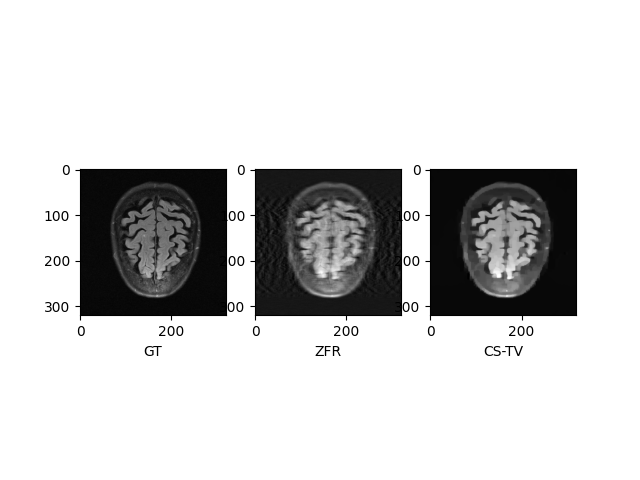
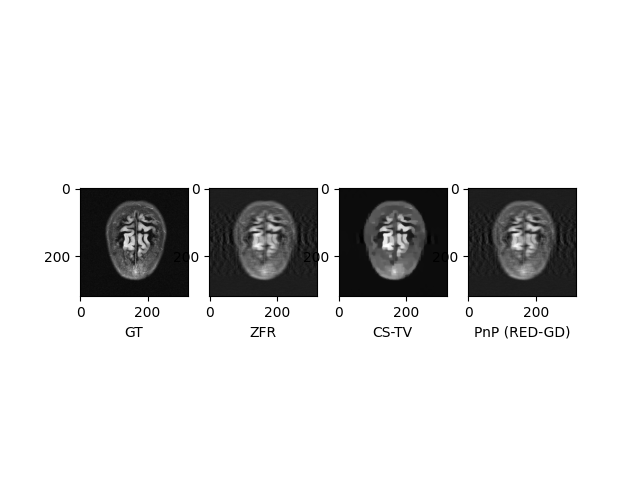
Small changes

diff --git a/utils/fastmri/models/unet/train_unet.py b/utils/fastmri/models/unet/train_unet.py
@@ -23,8 +23,8 @@ from eval import nmse
 from utils import fastmri
 from utils.fastmri.data import transforms
 from utils.fastmri.data.mri_data import SelectiveSliceData
+from utils.fastmri.data.mri_data import SliceDataset
 from utils.fastmri.models.unet.unet import UnetModel
-import wandb
 
 from utils.fastmri.utils import generate_gro_mask
 
@@ -52,10 +52,9 @@ class DataTransform:
         self.mask = None
         if args.mask_path is not None:
             self.mask = torch.load(args.mask_path)
-            if args.challenge == 'singlecoil':
-                self.mask = self.mask.squeeze(0)
+            self.mask = self.mask.squeeze(0)
 
-    def __call__(self, kspace, target, attrs, fname, slice):
+    def __call__(self, kspace, mk, target, attrs, fname, slice):
         """
         Args:
             kspace (numpy.array): Input k-space of shape (num_coils, rows, cols, 2) for multi-coil
@@ -80,8 +79,6 @@ class DataTransform:
 
         # Inverse Fourier Transform to get zero filled solution
         image = fastmri.ifft2c(masked_kspace)
-        # Crop input image
-        image = transforms.complex_center_crop(image, (args.resolution, args.resolution))
         # Absolute value
         image = fastmri.complex_abs(image)
 
@@ -90,50 +87,33 @@ class DataTransform:
         image = image.clamp(-6, 6)
 
         # Normalize target
-        target = transforms.to_tensor(target)
+        target = fastmri.ifft2c(kspace)
+        target = transforms.complex_center_crop(target, (320,320))
+        target = fastmri.complex_abs(target)
+        
         target = transforms.normalize(target, mean, std, eps=1e-11)
         target = target.clamp(-6, 6)
         return image, target, mean, std, attrs['norm'].astype(np.float32)
 
 
 def create_datasets(args):
-    # select subset
-    fat_supress = None
-    strength_3T = None
-
-    if args.scanner_mode is not None:
-        fat_supress = (args.scanner_mode == "PDFS")
-    if args.scanner_strength is not None:
-        strength_3T = (args.scanner_strength >= 2.2)
-
-
-    train_data = SelectiveSliceData(
-        root=args.data_path / f'{args.challenge}_train',
+    train_data = SliceDataset(
+        root=args.data_path / f'singlecoil_train',
         transform=DataTransform(args),
-        sample_rate=args.sample_rate,
-        challenge=args.challenge,
-        use_mid_slices=args.use_middle_slices,
-        fat_supress=fat_supress,
-        strength_3T=strength_3T,
-        restrict_size=True
+        sample_rate=1.0,
+        challenge='singlecoil',
     )
-    dev_data = SelectiveSliceData(
-        root=args.data_path / f'{args.challenge}_val',
-        transform=DataTransform(args, use_seed=True),
-        sample_rate=args.sample_rate,
-        challenge=args.challenge,
-        use_mid_slices=args.use_middle_slices,
-        fat_supress=fat_supress,
-        strength_3T=strength_3T,
-        restrict_size=True
+    dev_data = SliceDataset(
+        root=args.data_path / f'singlecoil_val',
+        transform=DataTransform(args),
+        sample_rate=1.0,
+        challenge='singlecoil',
     )
     return dev_data, train_data
 
 
 def create_data_loaders(args):
     dev_data, train_data = create_datasets(args)
-    display_data = [dev_data[i] for i in range(0, len(dev_data), len(dev_data) // 16)]
-
     train_loader = DataLoader(
         dataset=train_data,
         batch_size=args.batch_size,
@@ -147,13 +127,8 @@ def create_data_loaders(args):
         num_workers=64,
         pin_memory=True,
     )
-    display_loader = DataLoader(
-        dataset=display_data,
-        batch_size=16,
-        num_workers=64,
-        pin_memory=True,
-    )
-    return train_loader, dev_loader, display_loader
+
+    return train_loader, dev_loader
 
 
 def train_epoch(args, epoch, model, data_loader, optimizer, writer):
@@ -208,7 +183,6 @@ def evaluate(args, epoch, model, data_loader, writer):
                 NMSE = nmse(target[i].cpu().numpy(), output[i].cpu().numpy())
                 losses.append(NMSE)
         writer.add_scalar('Dev_Loss', np.mean(losses), epoch)
-        wandb.log({"Val_NMSE": np.mean(losses)}, step=epoch)
     return np.mean(losses), time.perf_counter() - start
 
 
@@ -219,7 +193,6 @@ def visualize(args, epoch, model, data_loader, writer):
         grid = torchvision.utils.make_grid(image, nrow=4, pad_value=1)
         writer.add_image(tag, grid, epoch)
         grid_np = np.transpose(grid.cpu().numpy(), (1, 2, 0))
-        wandb.log({tag: wandb.Image(grid_np)}, step=epoch)
 
     model.eval()
     with torch.no_grad():
@@ -282,7 +255,6 @@ def build_optim(args, params):
 def main(args):
     args.exp_dir.mkdir(parents=True, exist_ok=True)
     writer = SummaryWriter(log_dir=str(args.exp_dir / 'summary'))
-    wandb.init(name=args.run_name, config=args, project="fastmri-unet")
 
     if args.resume:
         checkpoint, model, optimizer = load_model(args.checkpoint)
@@ -300,14 +272,13 @@ def main(args):
     logging.info(args)
     logging.info(model)
 
-    train_loader, dev_loader, display_loader = create_data_loaders(args)
+    train_loader, dev_loader = create_data_loaders(args)
     scheduler = torch.optim.lr_scheduler.StepLR(optimizer, args.lr_step_size, args.lr_gamma)
 
     for epoch in range(start_epoch, args.num_epochs):
         scheduler.step(epoch)
         train_loss, train_time = train_epoch(args, epoch, model, train_loader, optimizer, writer)
         dev_loss, dev_time = evaluate(args, epoch, model, dev_loader, writer)
-        visualize(args, epoch, model, display_loader, writer)
 
         is_new_best = dev_loss < best_dev_loss
         best_dev_loss = min(best_dev_loss, dev_loss)
@@ -321,6 +292,12 @@ def main(args):
 
 def create_arg_parser():
     parser = ArgumentParser(add_help=False)
+    parser.add_argument(
+        "--data_path",
+        type=pathlib.Path,
+        required=True,
+        help="Path to the data",
+    )
     parser.add_argument('--num-pools', type=int, default=4, help='Number of U-Net pooling layers')
     parser.add_argument('--drop-prob', type=float, default=0.0, help='Dropout probability')
     parser.add_argument('--num-chans', type=int, default=128, help='Number of U-Net channels')
@@ -338,7 +315,7 @@ def create_arg_parser():
     parser.add_argument('--report-interval', type=int, default=100, help='Period of loss reporting')
     parser.add_argument('--data-parallel', action='store_true',
                         help='If set, use multiple GPUs using data parallelism')
-    parser.add_argument('--device', type=int, default=0,
+    parser.add_argument('--device', type=str, default='cuda',
                         help='Which device to train on. Set to "cuda" to use the GPU')
     parser.add_argument('--exp-dir', type=pathlib.Path, default='checkpoints',
                         help='Path where model and results should be saved')
@@ -369,7 +346,5 @@ if __name__ == '__main__':
     else:
         args.device = torch.device('cpu')
     print(args.device)
-    random.seed(args.seed)
-    np.random.seed(args.seed)
-    torch.manual_seed(args.seed)
+
     main(args)

diff --git a/test.py b/test.py
@@ -26,8 +26,9 @@ def get_gro_mask(mask_shape):
 def general():
     with h5py.File('/storage/fastMRI_brain/data/Matt_preprocessed_data/singlecoil_val/file_brain_AXFLAIR_200_6002581.h5', "r") as target, \
             h5py.File('/home/bendel.8/Git_Repos/ComparisonStudy/base_cs/out/file_brain_AXFLAIR_200_6002581.h5', 'r') as recons, \
-                h5py.File('/home/bendel.8/Git_Repos/ComparisonStudy/zero_filled/out/file_brain_AXFLAIR_200_6002581.h5') as zf:
-        ind = 8
+                h5py.File('/home/bendel.8/Git_Repos/ComparisonStudy/zero_filled/out/file_brain_AXFLAIR_200_6002581.h5') as zf, \
+                    h5py.File('/home/bendel.8/Git_Repos/ComparisonStudy/pnp/out/file_brain_AXFLAIR_200_6002581.h5') as pnp_im:
+        ind = 10
         need_cropped = False
         crop_size = (320, 320)
         target = target['reconstruction_rss'][()][ind]
@@ -38,24 +39,27 @@ def general():
         target = transforms.center_crop(target, crop_size)
         zfr = zf["reconstruction"][()][ind]
         recons = recons["reconstruction"][()][ind]
+        pnp_im = pnp_im["reconstruction"][()][ind]
+
         if need_cropped:
             zfr = transforms.center_crop(zfr, crop_size)
             recons = transforms.center_crop(recons, crop_size)
+            pnp_im = transforms.center_crop(pnp_im, crop_size)
 
 
         fig = plt.figure()
-        ax1 = fig.add_subplot(1, 3, 1)
+        ax1 = fig.add_subplot(1, 4, 1)
         ax1.imshow(np.abs(target), cmap='gray')
         plt.xlabel('GT')
-        ax1 = fig.add_subplot(1, 3, 2)
-        ax1.imshow(np.abs(zfr), cmap='gray')
+        ax2 = fig.add_subplot(1, 4, 2)
+        ax2.imshow(np.abs(zfr), cmap='gray')
         plt.xlabel('ZFR')
-        ax2 = fig.add_subplot(1,3,3)
-        ax2.imshow(np.abs(recons), cmap='gray')
+        ax3 = fig.add_subplot(1,4,3)
+        ax3.imshow(np.abs(recons), cmap='gray')
         plt.xlabel('CS-TV')
-        # ax3 = fig.add_subplot(1, 3, 3)
-        # ax3.imshow(np.abs(usamp_image.numpy()), cmap='gray')
-        # plt.xlabel('ZFR')
+        ax4 = fig.add_subplot(1, 4, 4)
+        ax4.imshow(np.abs(pnp_im), cmap='gray')
+        plt.xlabel('PnP (RED-GD)')
         plt.savefig('test_graph.png')
 
 general()

diff --git a/utils/fastmri/data/mri_data.py b/utils/fastmri/data/mri_data.py
@@ -245,7 +245,7 @@ class SliceDataset(torch.utils.data.Dataset):
 
         self.transform = transform
         self.recons_key = (
-            "reconstruction_esc" if challenge == "singlecoil" else "reconstruction_rss"
+            "reconstruction_rss" if challenge == "singlecoil" else "reconstruction_rss"
         )
         self.examples = []
 
